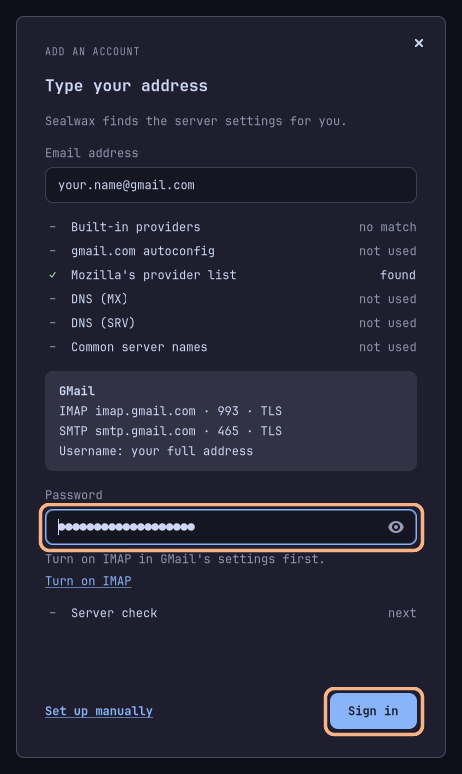
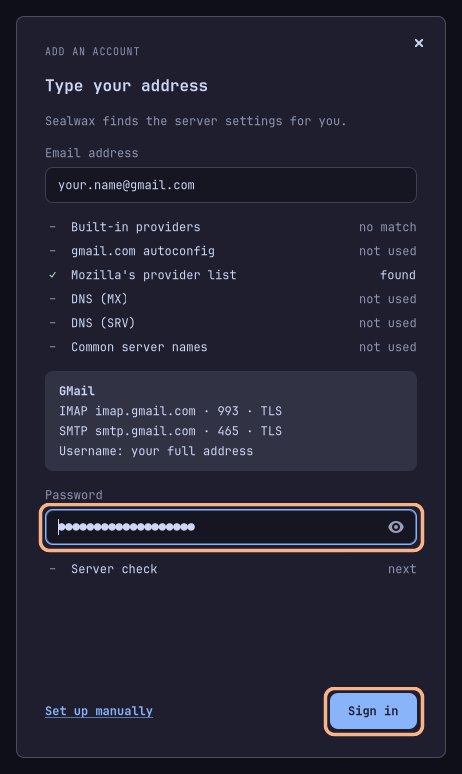
Sealwax 0.4.1: no "Turn on IMAP" note for Gmail; GMAIL.md's password picture without it

diff --git a/README.md b/README.md
@@ -18,7 +18,7 @@ Run the same line again to update. To uninstall: `sudo pacman -R sealwax`. An AU
 
 ## Status
 
-**Version 0.4.0, the first public release.** The features below are built and tested, and its author reads their own mail with it every day; 1.0 follows a longer period of daily use with real accounts. Testing so far is on local test mail servers (Dovecot, Stalwart, Mailpit), with Microsoft sign-in checked live on an Outlook.com account and the author's own accounts in daily use; other providers are welcome to report how it goes. The [1.0 release notes](docs/RELEASE_NOTES.md) are drafted.
+**Version 0.4.1.** The features below are built and tested, and its author reads their own mail with it every day; 1.0 follows a longer period of daily use with real accounts. Testing so far is on local test mail servers (Dovecot, Stalwart, Mailpit), with Microsoft sign-in checked live on an Outlook.com account and the author's own accounts in daily use; other providers are welcome to report how it goes. The [1.0 release notes](docs/RELEASE_NOTES.md) are drafted.
 
 ## Features
 

diff --git a/docs/GMAIL.md b/docs/GMAIL.md
@@ -65,7 +65,7 @@ Don't write the app password down or send it to anyone: it opens your mail. Seal
 4. Sealwax looks up Gmail's settings by itself. After a moment it shows **GMail**, with `imap.gmail.com` and `smtp.gmail.com`. You don't need to change anything there.
 5. Click the **Password** field and paste the app password from step 2 (**Ctrl + V**). Not your Google password: the 16 letters. The spaces between the groups of letters can stay.
 
-   Sealwax 0.4.0 also says "Turn on IMAP in GMail's settings first" under the field. **You can skip that:** Gmail always has IMAP turned on, so there is nothing to change in Gmail. Newer versions of Sealwax don't show it.
+   If your Sealwax is version 0.4.0, it also says "Turn on IMAP in GMail's settings first" under the field. **You can skip that:** Gmail always has IMAP turned on, so there is nothing to change in Gmail. Sealwax 0.4.1 and newer don't show it.
 
 6. Click **Sign in**.
 

diff --git a/docs/USER_GUIDE.md b/docs/USER_GUIDE.md
@@ -2,7 +2,7 @@
 
 Synced: 2026-10-11
 
-This guide is for people who use Sealwax every day. It describes Sealwax 0.4.0, before 1.0. Where a command is in the keymap or the menus but does nothing yet, this guide says "not built yet". Every address and name in the examples is fictional.
+This guide is for people who use Sealwax every day. It describes Sealwax 0.4.1, before 1.0. Where a command is in the keymap or the menus but does nothing yet, this guide says "not built yet". Every address and name in the examples is fictional.
 
 - [Installing](#installing)
 - [First start and adding an account](#first-start-and-adding-an-account)

diff --git a/CHANGELOG.md b/CHANGELOG.md
@@ -2,7 +2,9 @@
 
 Each release, newest first, in plain words. [INSTALL.md](INSTALL.md) says how to install, update and uninstall Sealwax.
 
-## Not released yet
+## 0.4.1 — 2026-10-11
+
+A small update for Gmail users.
 
 - **Gmail:** Sealwax no longer asks you to turn on IMAP in Gmail's settings, as Gmail always has it on. [GMAIL.md](docs/GMAIL.md) shows, step by step, how to add a Gmail account with an app password.
 
